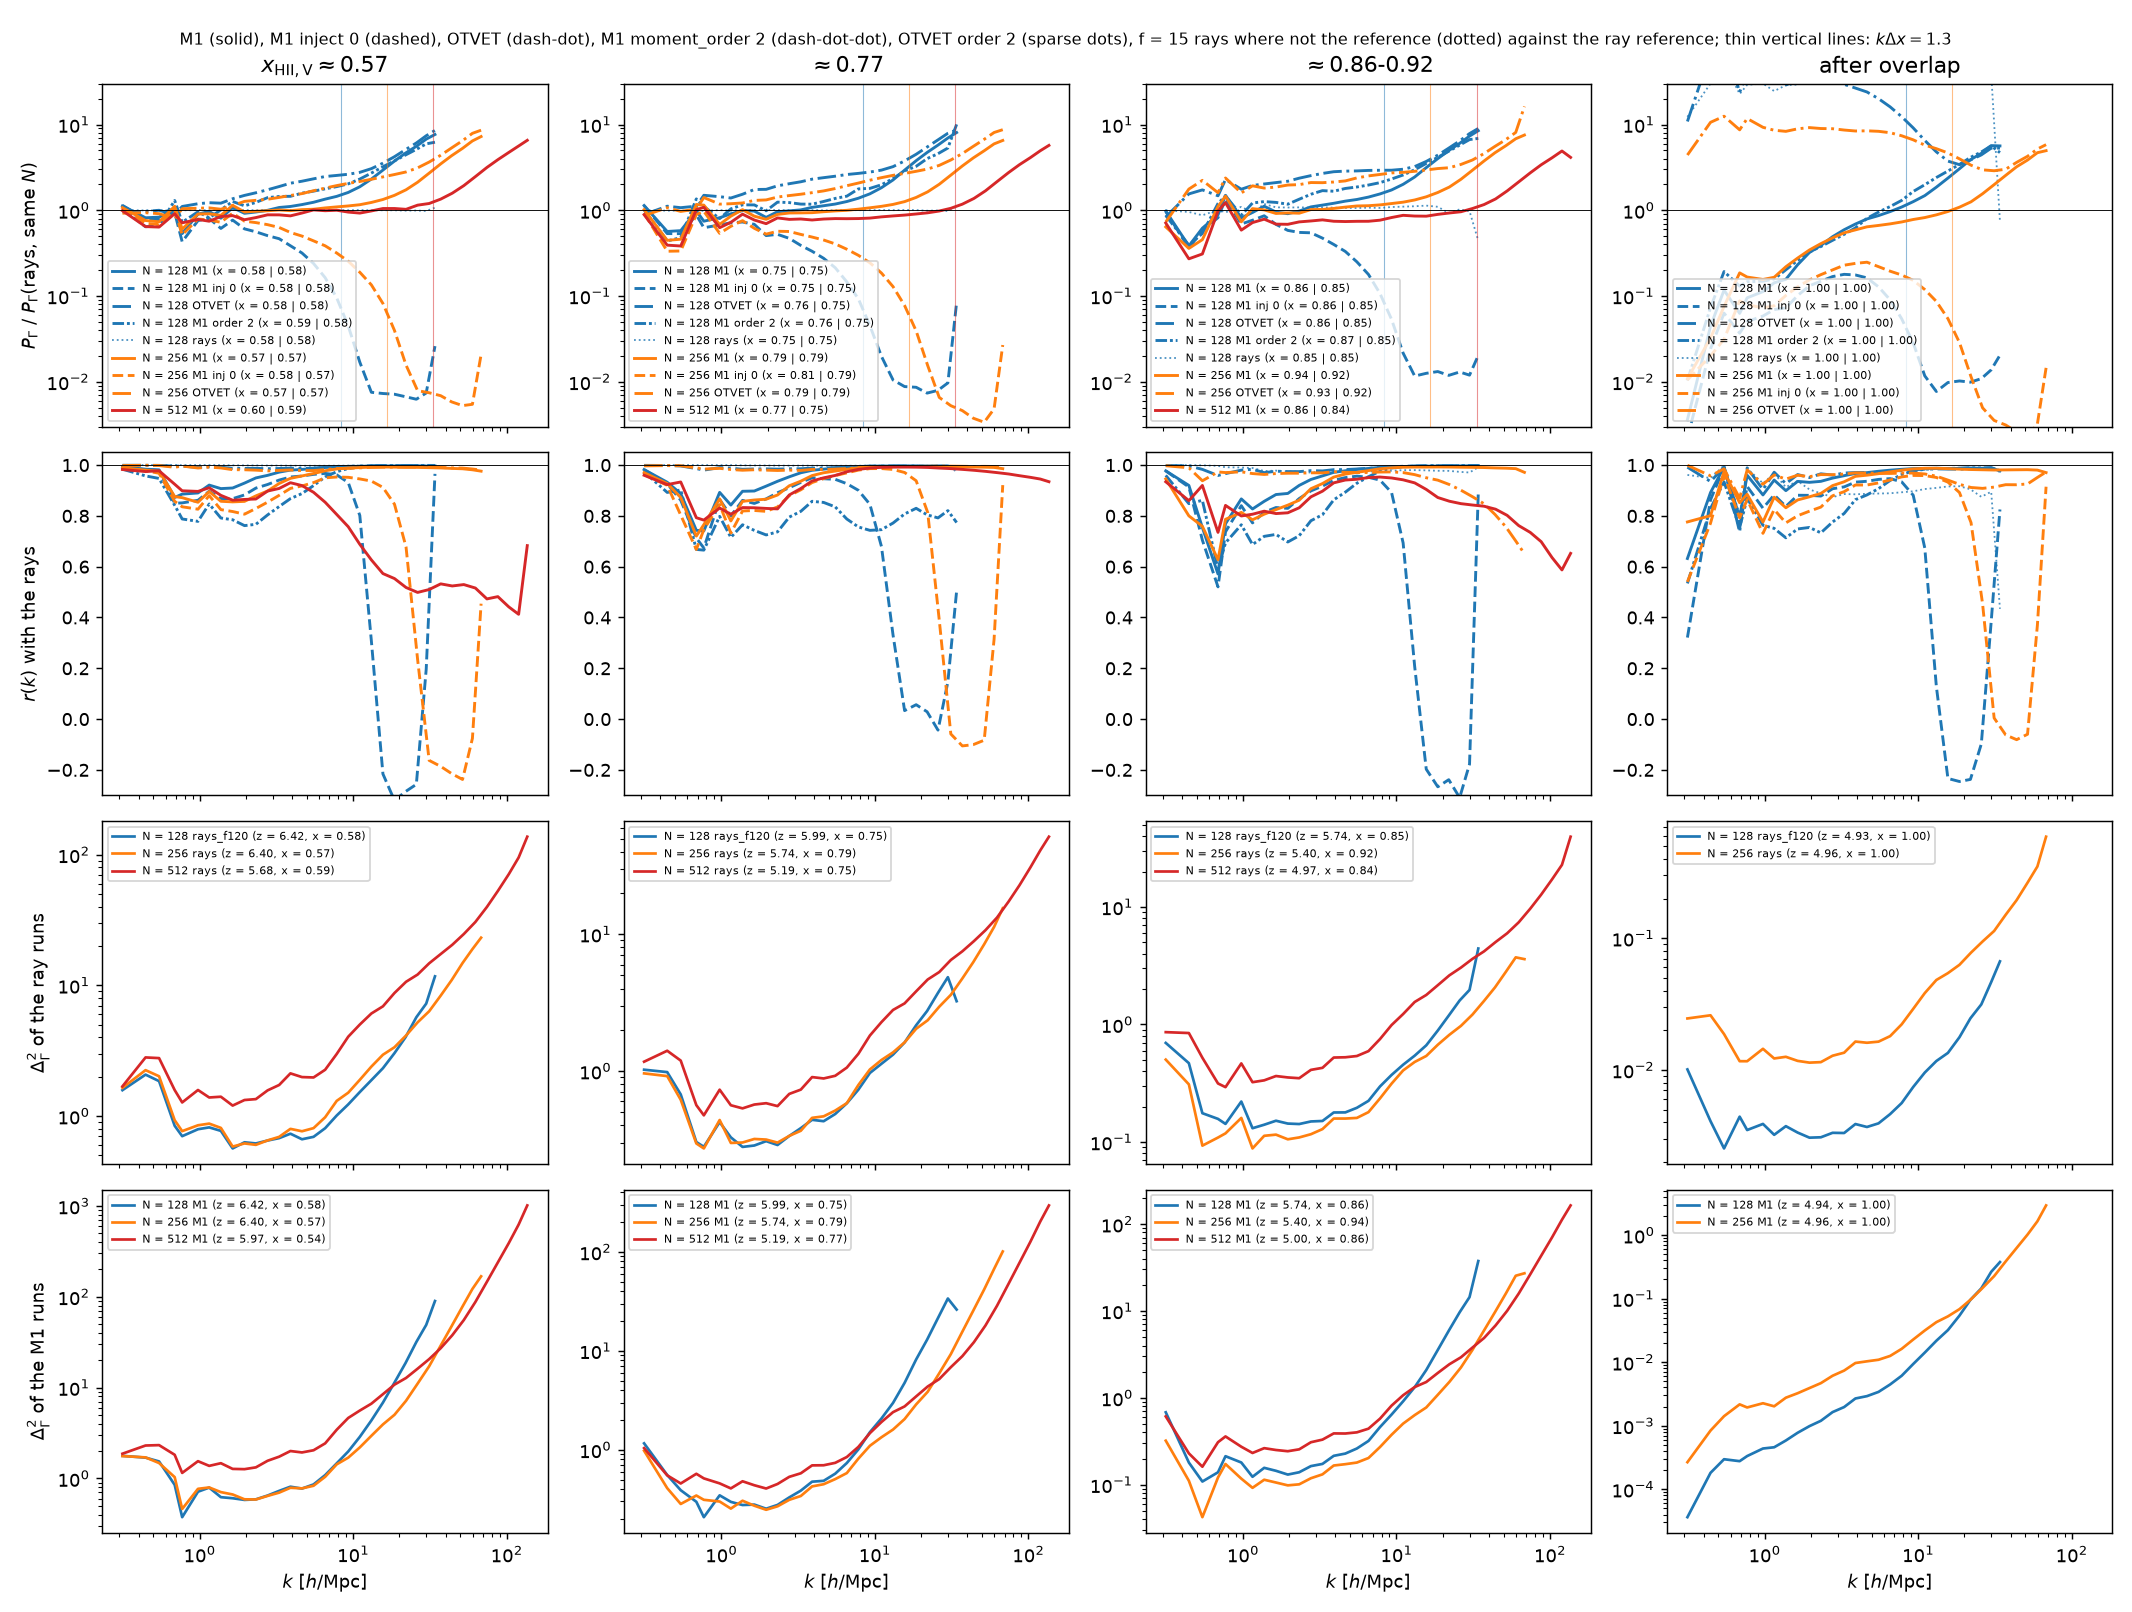
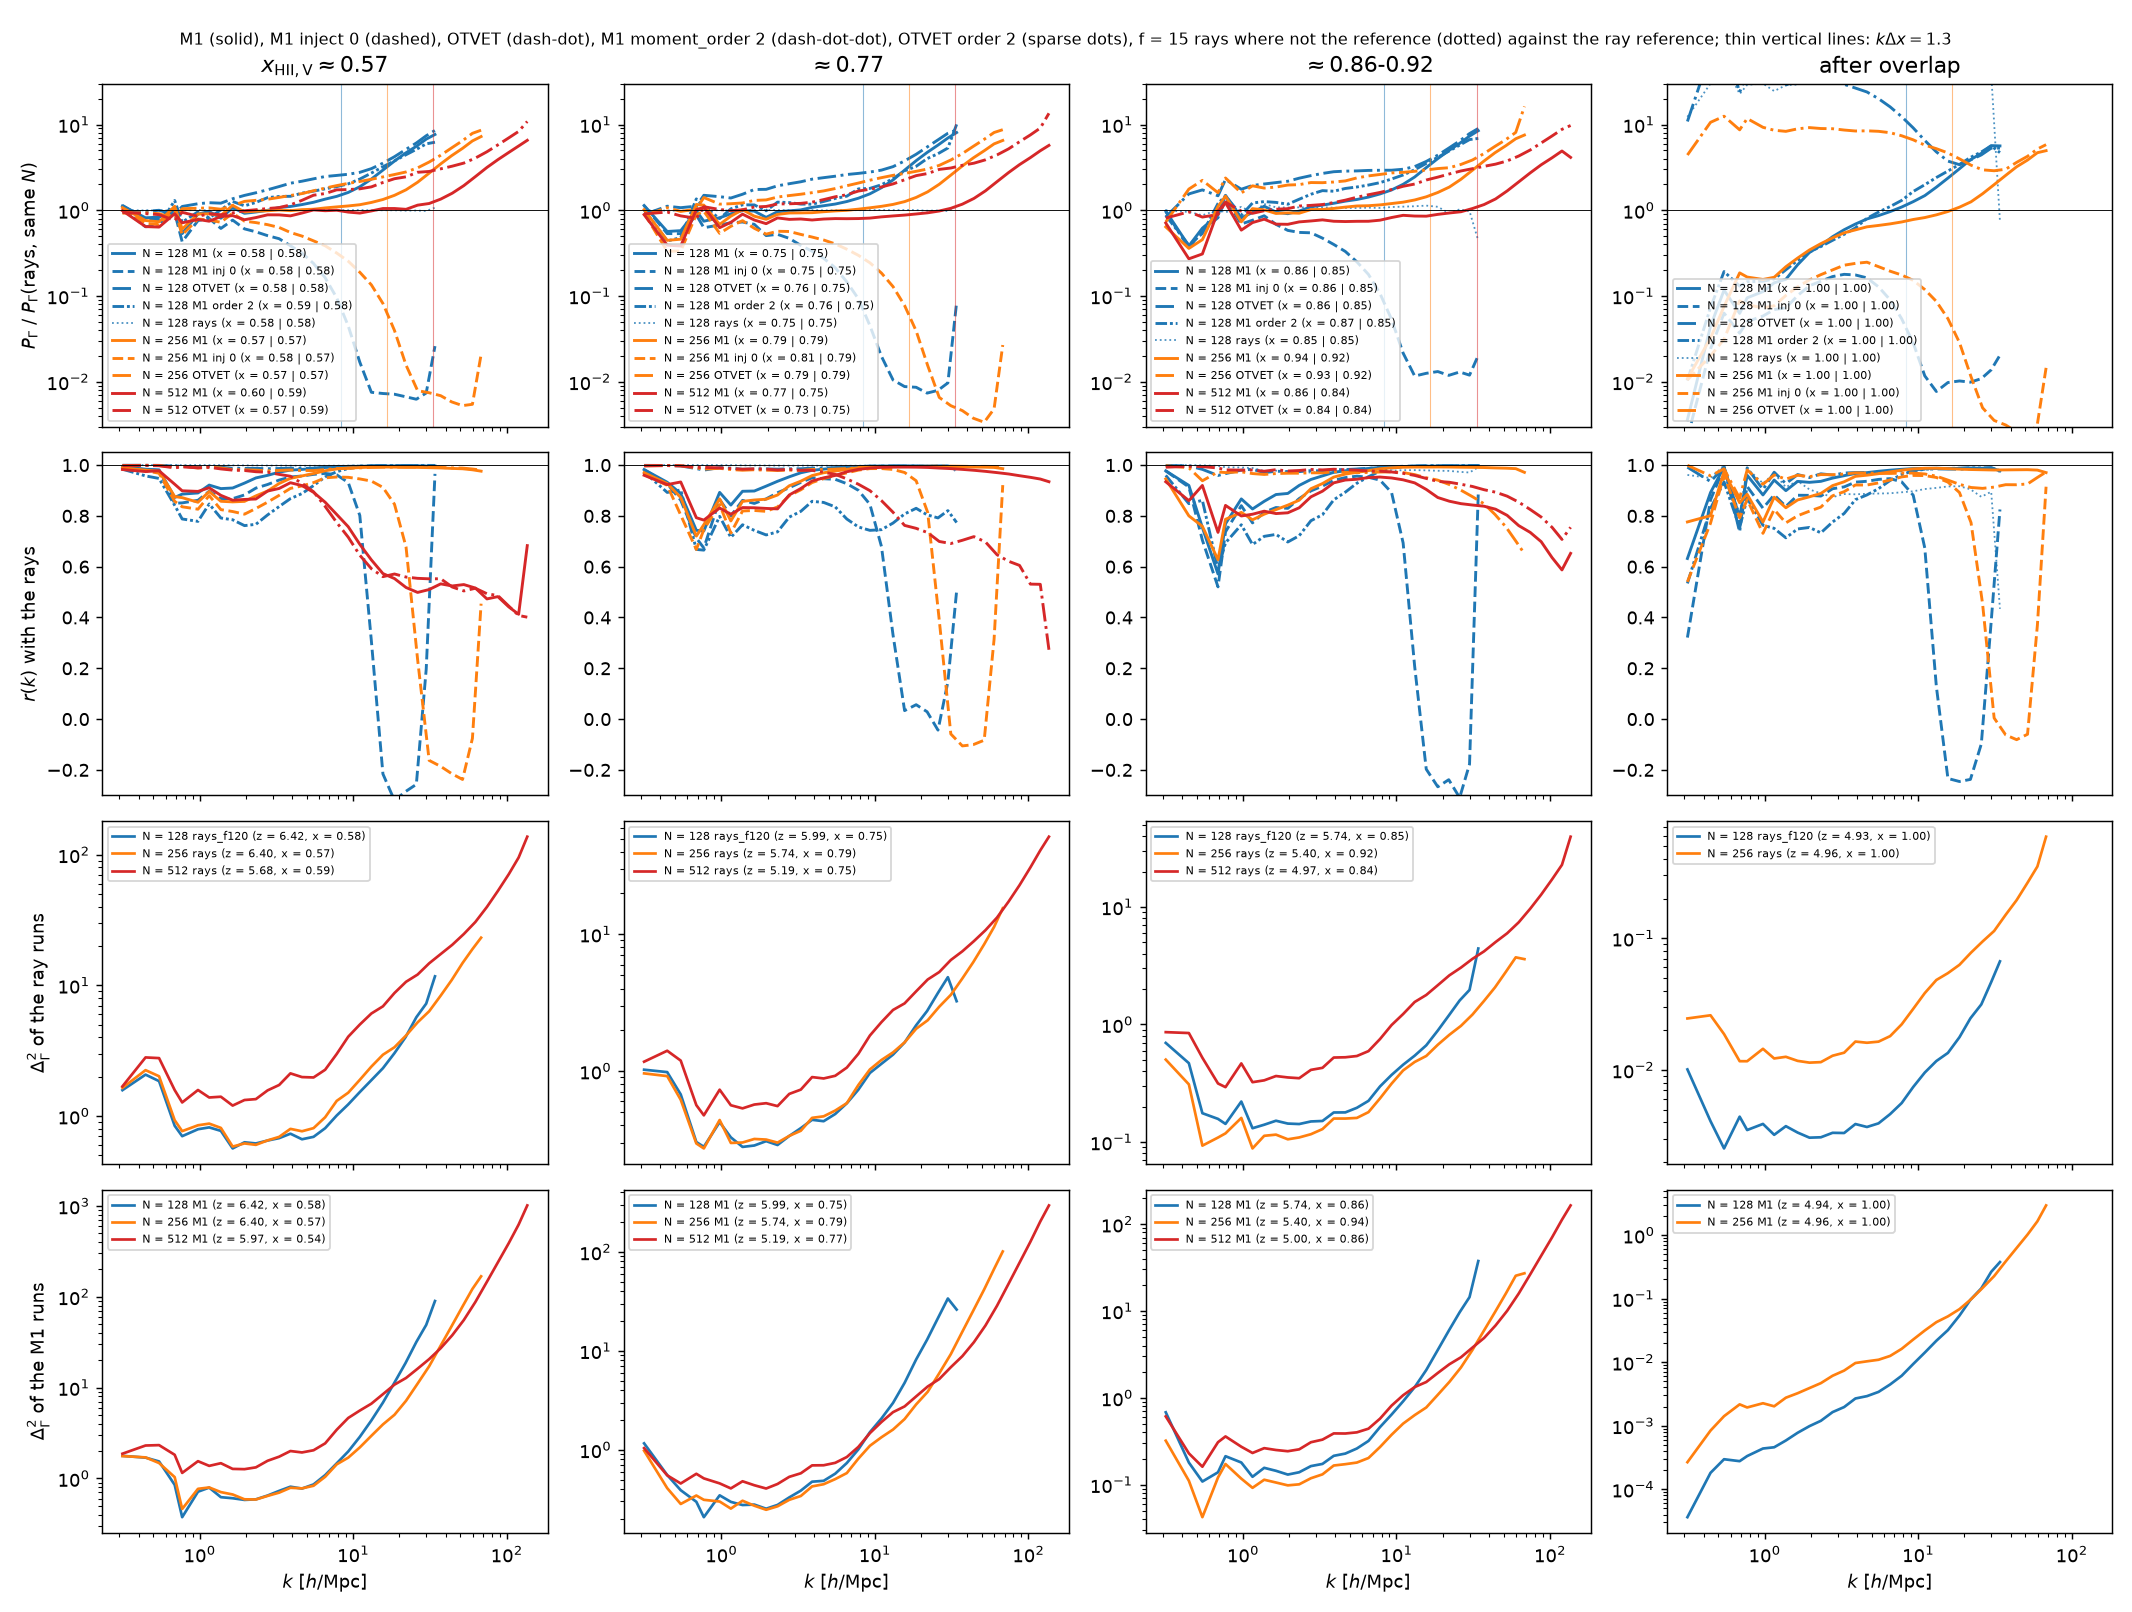
convergence.tex: 512^3 OTVET run against the rays
Claude-Session: https://claude.ai/code/session_01VFiZmS7UWHvPFDz1PfxAs7

Changed region(s): [[0.5572, 0.1551, 0.6501, 0.2792], [0.3096, 0.1241, 0.4024, 0.2481], [0.0619, 0.1551, 0.1548, 0.2792]]

diff --git a/convergence.tex b/convergence.tex
@@ -447,9 +447,11 @@ $\xv\approx0.77$ the ratio at $k=4\hmpc$ is 1.09, 0.94, 0.77. Part of this is th
 Fig.~\ref{fig:res}), reached at lower redshift.
 \item \textbf{OTVET has more small-scale power than the rays at every resolution} during reionization, and the
 excess shrinks slowly: at $\xv\approx0.57$, $P_\Gamma/P_\Gamma({\rm rays})$ at $k=2$, 4, 8, $16\hmpc$ is
-1.50, 2.08, 2.56, 3.64 at $128^3$ and 1.27, 1.50, 1.96, 2.47 at $256^3$; at $512^3$ ($\xv\approx0.44$) it is
-1.03, 1.25, 1.61, 2.18. \pending{the $512^3$ OTVET run is at $z=5.8$} Its cross-correlation with the rays is
-0.98--1.00 throughout.
+1.50, 2.08, 2.56, 3.64 at $128^3$ and 1.27, 1.50, 1.96, 2.47 at $256^3$; at $512^3$ it is
+0.99, 1.18, 1.73, 2.14 ($\xv\approx0.58$; 1.12, 1.26, 1.69, 2.30 at $\xv\approx0.74$). From $256^3$ to
+$512^3$ the excess at fixed $k\ge8\hmpc$ falls by only 10--15\,\%. Its cross-correlation with the rays is
+0.98--1.00 at $128^3$ and $256^3$ and 0.95--0.99 at $k\le4\hmpc$ at $512^3$, where at $k\ge8\hmpc$ it follows
+the redshift mismatch of the paired snapshots as for M1.
 \item \textbf{OTVET's excess after overlap is large and grows as the mean free path does:} 8--12 times the
 rays' power at $k=0.5$--$4\hmpc$ at $256^3$ ($\lambda=15$--20\,pMpc) and 26--85 times at $128^3$
 ($\lambda=38$\,pMpc), in line with the $\lambda/L$ scaling of its tensor term.
@@ -540,9 +542,9 @@ events; the $256^3$ $f=15$ and $f=120$ runs took 2.5\,h and 7.5\,h.
 \item Uniform test: first order at $32^3$--$256^3$ ($\lambda=L/4$) and $32^3$--$128^3$ ($\lambda=L$), plus
 $\lambda=L/8$ and $2.5L$ with few and many sources; both orders and both injection orders at $64^3$ and $128^3$.
 \pending{second order at $32^3$ and $256^3$}
-\item Reionization runs finished: rays, M1 at $128^3$, $256^3$, $512^3$; M1 with injection before the transport and OTVET at $128^3$
+\item Reionization runs finished: rays, M1 at $128^3$, $256^3$, $512^3$; OTVET at $128^3$, $256^3$, $512^3$; M1 with injection before the transport at $128^3$
 and $256^3$; the ray budgets; M1 second order at $128^3$.
-\pending{OTVET $512^3$; M1 second order $256^3$; OTVET second order $128^3$, $256^3$}
+\pending{M1 second order $256^3$; OTVET second order $128^3$, $256^3$}
 \item Not run: M1 with injection before the transport at $512^3$; OTVET with injection before the transport in a reionization
 run; any $512^3$ run past overlap; the screen and cone closures in any of these tests; an HLL flux; the second-order scheme on refined grids.
 \end{itemize}
